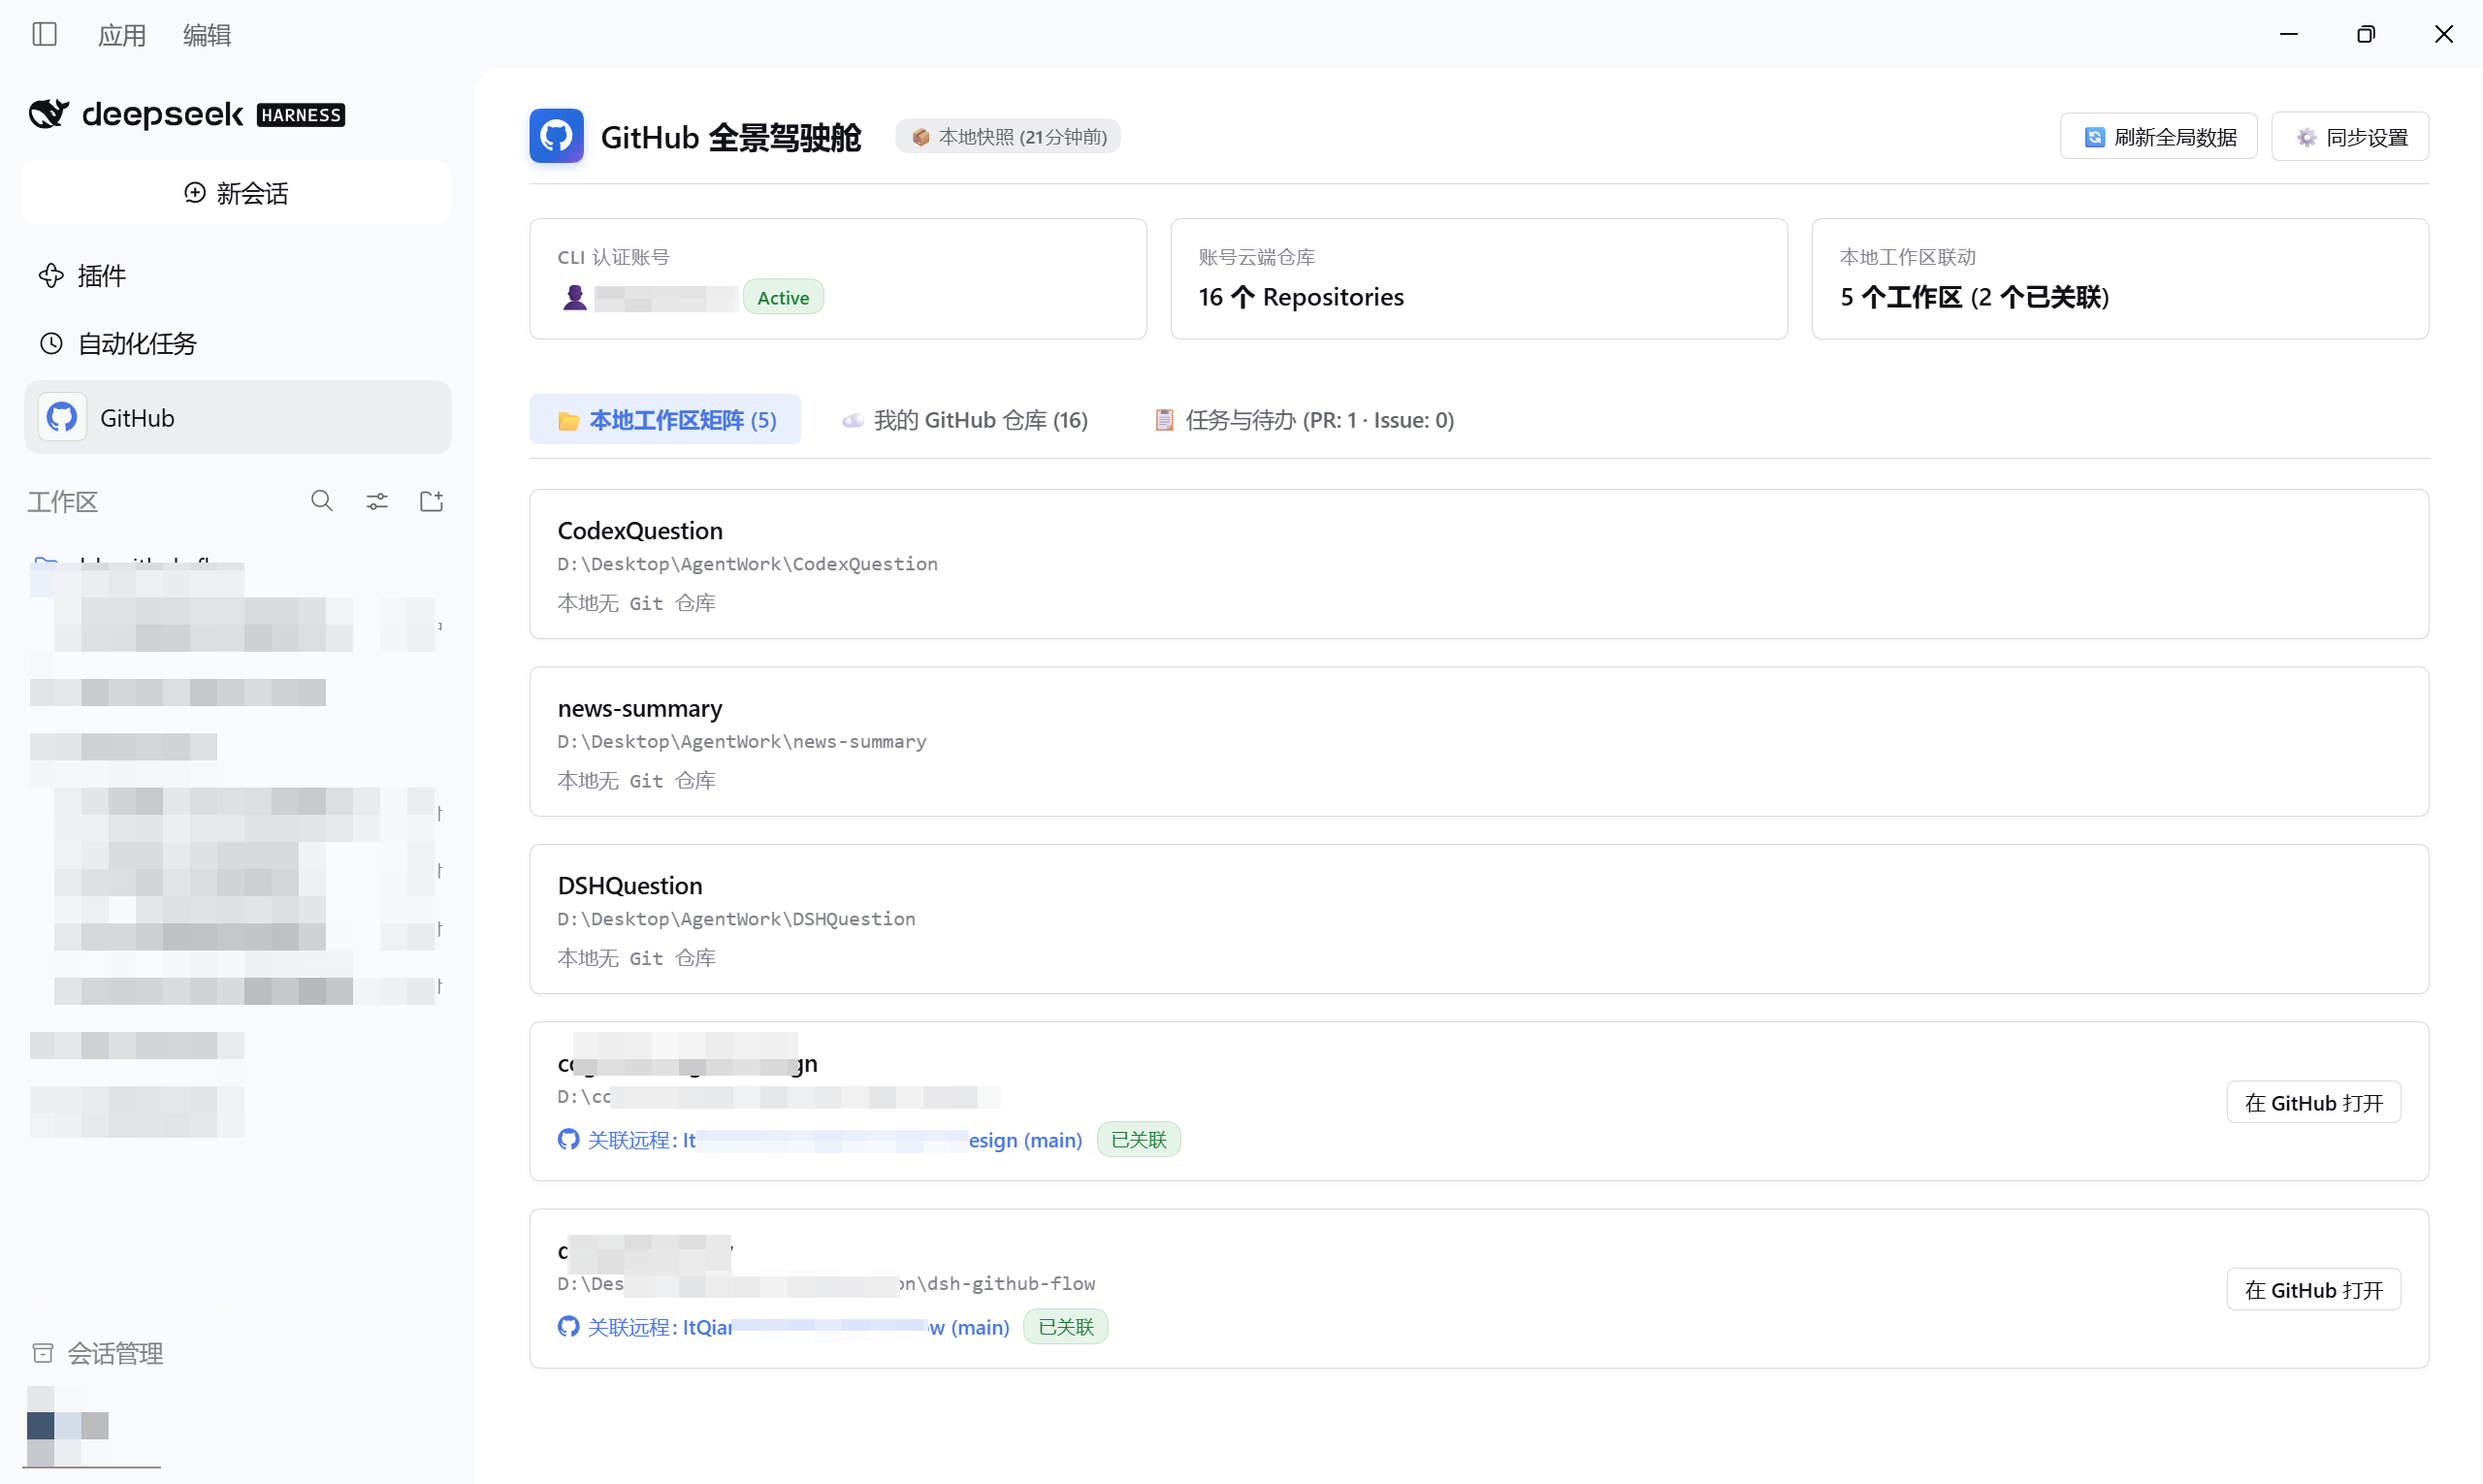
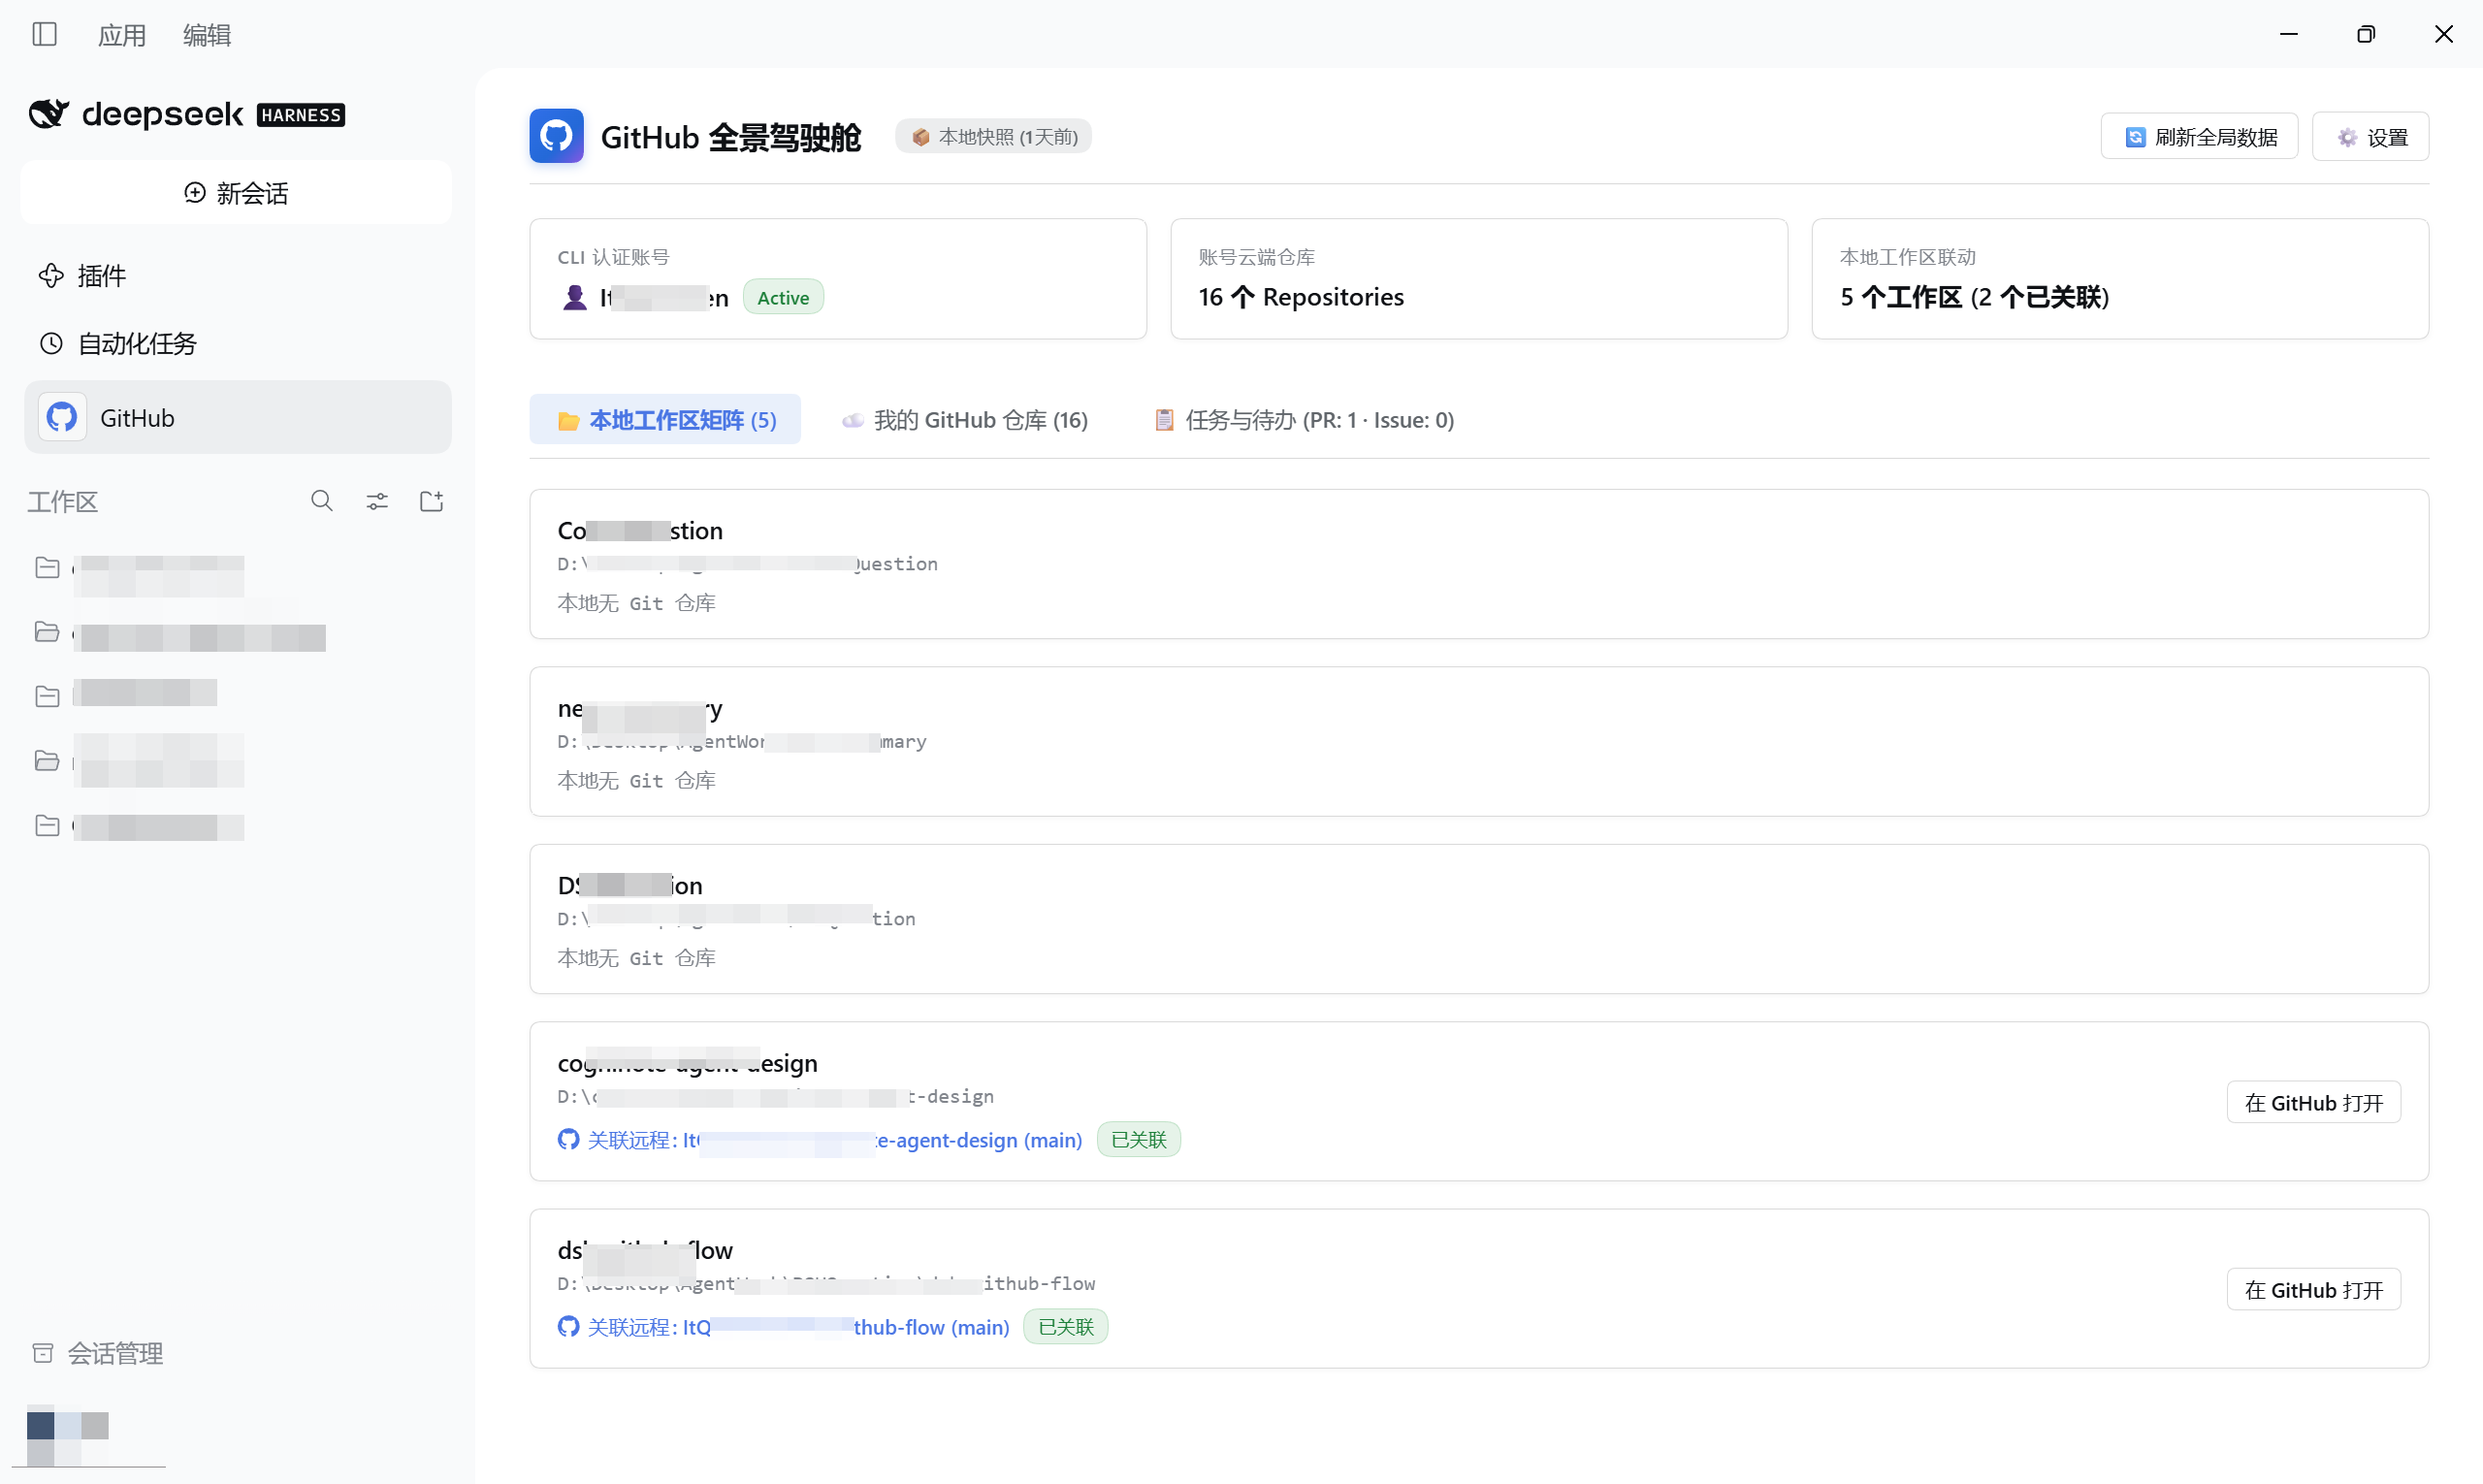
docs(readme): 优化信息架构并补齐配置文档
- 安装指南前置至痛点介绍之后：新用户 30 秒内即可拿到安装命令，工具详情下沉为装后参考
- 配置项示例补齐 proxyUrl 预置字段说明（仅未在驾驶舱设置过时生效，界面设置优先）
- 移除写死的具体版本号示例，改为版本号占位说明，消除每次发版后的文档漂移
- 设置中心双分区截图并排展示（数据同步/网络代理），中英文 alt 同步
- 更新驾驶舱与设置中心截图

diff --git a/README.en.md b/README.en.md
@@ -34,6 +34,42 @@ When using AI Agents for collaborative coding, developers frequently hit these f
 
 ---
 
+## 🚀 Installation Guide
+
+### Step 1: Prerequisites
+Ensure GitHub CLI (`gh`) is installed and authenticated:
+```bash
+# Windows
+winget install --id GitHub.cli
+
+# macOS
+brew install gh
+
+# Login (one-time setup)
+gh auth login
+```
+
+### Step 2: Install into DSH
+
+Run in your DSH environment:
+
+```bash
+# Scenario A: DSH Desktop Edition (Desktop Profile)
+dsh plugin --profile desktop add dsh-github-flow
+
+# Scenario B: DSH Web / CLI Environment
+pnpm dsh plugin add dsh-github-flow
+```
+
+> 💡 **Notice (24-Hour Supply-Chain Security Lock Window)**:  
+> DSH's bundled package manager enforces a supply-chain safety policy (`minimum-release-age = 24h`) by default to mitigate malicious package takeovers. Within **24 hours** of a new version release, running bare-name install commands without a version suffix will automatically fall back to the preceding stable version that has matured past 24 hours. To **install a newly released version immediately**, append the explicit version tag:
+> ```bash
+> dsh plugin --profile desktop add dsh-github-flow@<latest-version>
+> ```
+> Once 24 hours have passed since release, the standard bare-name command will resolve to the latest version automatically.
+
+---
+
 ## 🤖 Core Agent Tools: Equipping Agents with Native GitHub Powers
 
 Consolidates scattered GitHub endpoints into **9 core domain tools**, featuring **Token Budget Protection (default 24KB intelligent truncation)**, **High-density Native Markdown Rendering (70%+ list output token reduction)** and **Zero-argument CWD auto-binding**.
@@ -224,45 +260,9 @@ Click **`[⚙ Settings]`** in the top right of the Cockpit to open the sectio
 * **Visibility**: A `🌐 Proxy` badge appears in the cockpit title bar while active; hover to inspect the current proxy URL;
 * **NO_PROXY Exclusions**: `localhost` and `127.0.0.1` are forcibly included — loopback Web API requests are never hijacked by the proxy.
 
-<p align="center">
-  <img src="./docs/images/3.png" alt="Settings Modal" width="85%" />
-</p>
-
----
-
-## 🚀 Installation Guide
-
-### Step 1: Prerequisites
-Ensure GitHub CLI (`gh`) is installed and authenticated:
-```bash
-# Windows
-winget install --id GitHub.cli
-
-# macOS
-brew install gh
-
-# Login (one-time setup)
-gh auth login
-```
-
-### Step 2: Install into DSH
-
-Run in your DSH environment:
-
-```bash
-# Scenario A: DSH Desktop Edition (Desktop Profile)
-dsh plugin --profile desktop add dsh-github-flow
-
-# Scenario B: DSH Web / CLI Environment
-pnpm dsh plugin add dsh-github-flow
-```
-
-> 💡 **Notice (24-Hour Supply-Chain Security Lock Window)**:  
-> DSH's bundled package manager enforces a supply-chain safety policy (`minimum-release-age = 24h`) by default to mitigate malicious package takeovers. Within **24 hours** of a new version release, running bare-name install commands without a version suffix will automatically fall back to the preceding stable version that has matured past 24 hours. To **install a newly released version immediately**, append the explicit version tag:
-> ```bash
-> dsh plugin --profile desktop add dsh-github-flow@0.1.8
-> ```
-> Once 24 hours have passed since release, the standard bare-name command will resolve to the latest version automatically.
+| 🔄 Data Sync Section | 🌐 Network Proxy Section |
+| :---: | :---: |
+| ![Settings Center · Data Sync](./docs/images/3.png) | ![Settings Center · Network Proxy](./docs/images/4.png) |
 
 ---
 
@@ -335,6 +335,7 @@ Works out of the box, with optional tweaks in `cordis.patch.yml` or your profile
         checkUpdate: true         # Enable automatic update checks (default true)
         updateCheckIntervalMs: 86400000 # Check interval in ms (default 24h)
         registryUrl: ''           # Custom private npm registry URL
+        proxyUrl: ''              # Preset proxy default (e.g. 'http://127.0.0.1:7890'; only applies before the cockpit setting is saved — UI setting takes precedence)
 ```
 
 ---

diff --git a/README.md b/README.md
@@ -34,6 +34,42 @@
 
 ---
 
+## 🚀 安装指南
+
+### 步骤 1：前置准备（若已安装可跳过）
+确保你的机器上已安装 GitHub CLI (`gh`) 并已登录：
+```bash
+# Windows 安装
+winget install --id GitHub.cli
+
+# macOS 安装
+brew install gh
+
+# 登录认证（仅需执行一次）
+gh auth login
+```
+
+### 步骤 2：安装插件到 DSH
+
+在 DSH 终端根据你的使用环境执行对应命令：
+
+```bash
+# 场景 A：DSH 桌面版 (Desktop Profile)
+dsh plugin --profile desktop add dsh-github-flow
+
+# 场景 B：DSH Web / CLI 工程环境
+pnpm dsh plugin add dsh-github-flow
+```
+
+> 💡 **提示（新版本发布后 24 小时内的安全锁定期说明）**：  
+> DSH 内置包管理器默认启用了防投毒的供应链安全策略（`minimum-release-age = 24h`）。新版本发布后的 **24 小时内**，若执行不带版本号的裸名安装命令，底层会自动回退为发布满 24 小时的上一稳定版本。如需**立即尝鲜刚发布的新版本**，请在命令末尾显式追加 `@版本号`（替换为 npm 页面显示的最新版本）：
+> ```bash
+> dsh plugin --profile desktop add dsh-github-flow@<最新版本号>
+> ```
+> 版本发布满 24 小时后，执行原本的裸名命令即可默认解析安装最新版。
+
+---
+
 ## 🤖 核心工具集 (Agent Tools)：给 Agent 装上 GitHub 的手和脚
 
 本插件精选聚合为 **9 大领域核心工具**，拒绝几十个无用微型工具撑爆 Agent 上下文，原生搭载 **Token 防溢出保护（默认 24KB 智能二分截断）**、**高密度 Markdown 原生渲染（列表输出压缩 70%+ Token）** 与 **零参数 CWD 智能绑定**。
@@ -223,45 +259,9 @@
 * **生效可视化**：代理启用时驾驶舱标题栏显示 `🌐 代理` 徽章，悬停查看当前代理地址；
 * **NO_PROXY 排除列表**：`localhost` 与 `127.0.0.1` 强制包含，本机 Web API 回环请求永不被代理劫持。
 
-<p align="center">
-  <img src="./docs/images/3.png" alt="设置弹窗" width="85%" />
-</p>
-
----
-
-## 🚀 安装指南
-
-### 步骤 1：前置准备（若已安装可跳过）
-确保你的机器上已安装 GitHub CLI (`gh`) 并已登录：
-```bash
-# Windows 安装
-winget install --id GitHub.cli
-
-# macOS 安装
-brew install gh
-
-# 登录认证（仅需执行一次）
-gh auth login
-```
-
-### 步骤 2：安装插件到 DSH
-
-在 DSH 终端根据你的使用环境执行对应命令：
-
-```bash
-# 场景 A：DSH 桌面版 (Desktop Profile)
-dsh plugin --profile desktop add dsh-github-flow
-
-# 场景 B：DSH Web / CLI 工程环境
-pnpm dsh plugin add dsh-github-flow
-```
-
-> 💡 **提示（新版本发布后 24 小时内的安全锁定期说明）**：  
-> DSH 内置包管理器默认启用了防投毒的供应链安全策略（`minimum-release-age = 24h`）。新版本发布后的 **24 小时内**，若执行不带版本号的裸名安装命令，底层会自动回退为发布满 24 小时的上一稳定版本。如需**立即尝鲜刚发布的新版本**，请在命令末尾显式指定版本号：
-> ```bash
-> dsh plugin --profile desktop add dsh-github-flow@0.1.8
-> ```
-> 版本发布满 24 小时后，执行原本的裸名命令即可默认解析安装最新版。
+| 🔄 数据同步分区 | 🌐 网络代理分区 |
+| :---: | :---: |
+| ![设置中心·数据同步分区](./docs/images/3.png) | ![设置中心·网络代理分区](./docs/images/4.png) |
 
 ---
 
@@ -334,6 +334,7 @@ pnpm dsh plugin add dsh-github-flow
         checkUpdate: true         # 是否开启新版本自动检查提示（默认开启）
         updateCheckIntervalMs: 86400000 # 检查更新间隔（毫秒，默认 24 小时）
         registryUrl: ''           # 自定义私有 npm 镜像地址（留空则自动选用 npmmirror 与 npmjs）
+        proxyUrl: ''              # 代理地址预置默认值（如 'http://127.0.0.1:7890'；仅未在驾驶舱设置过时生效，界面设置优先）
 ```
 
 ---
